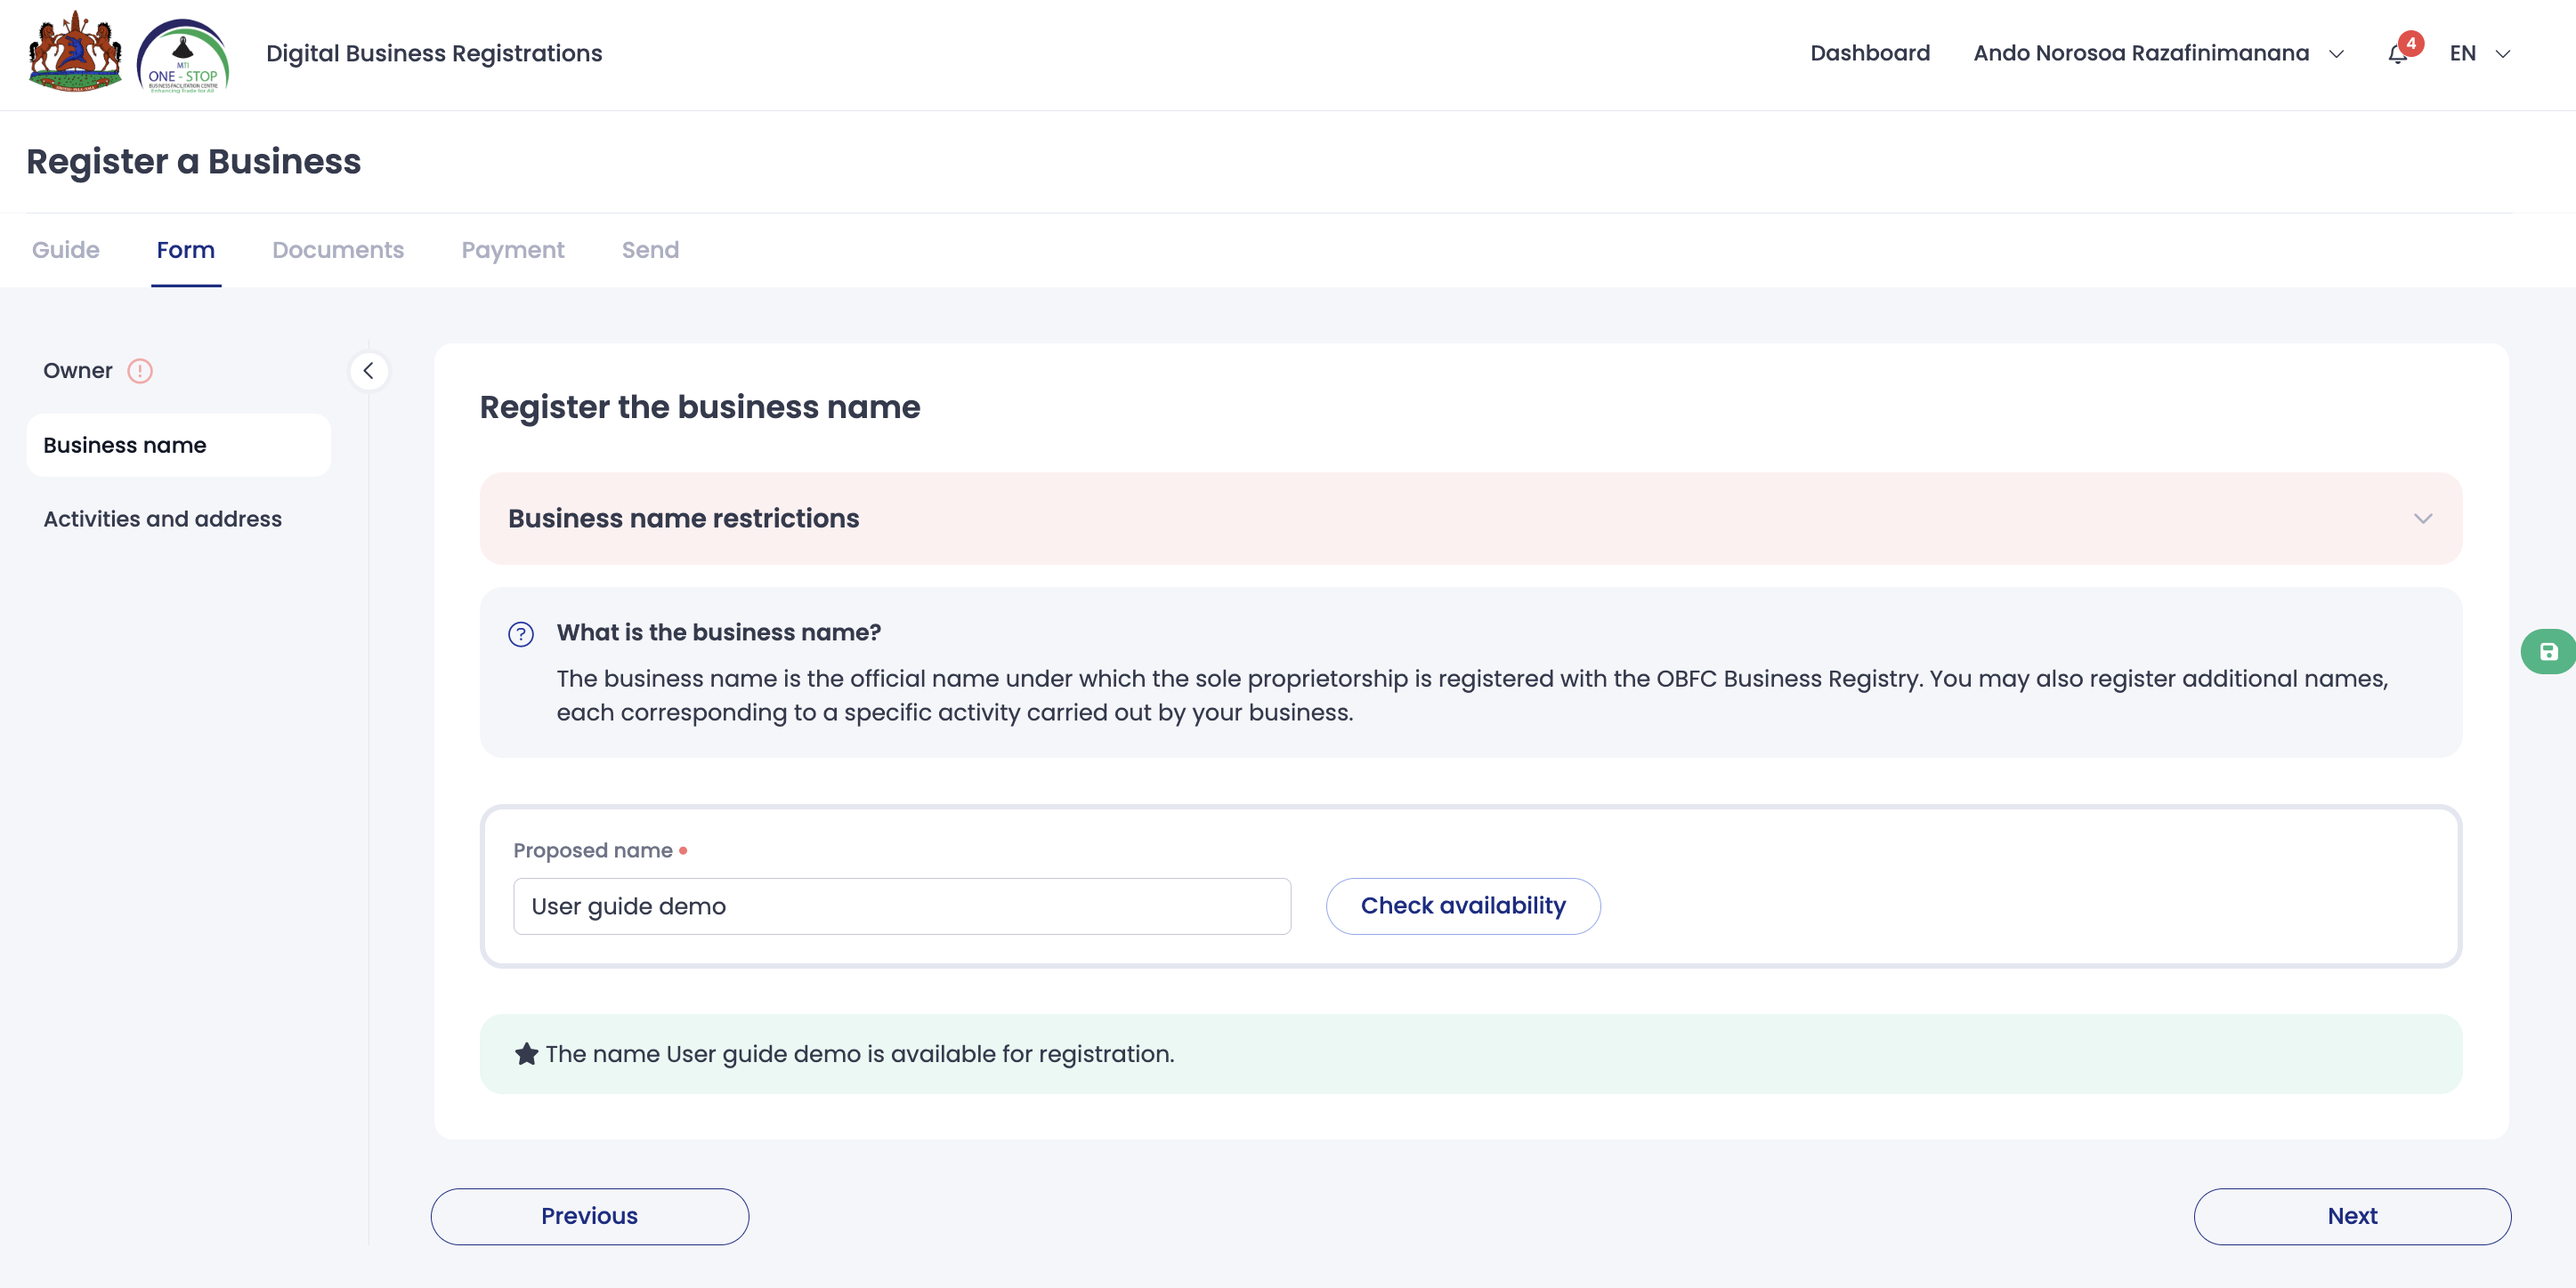
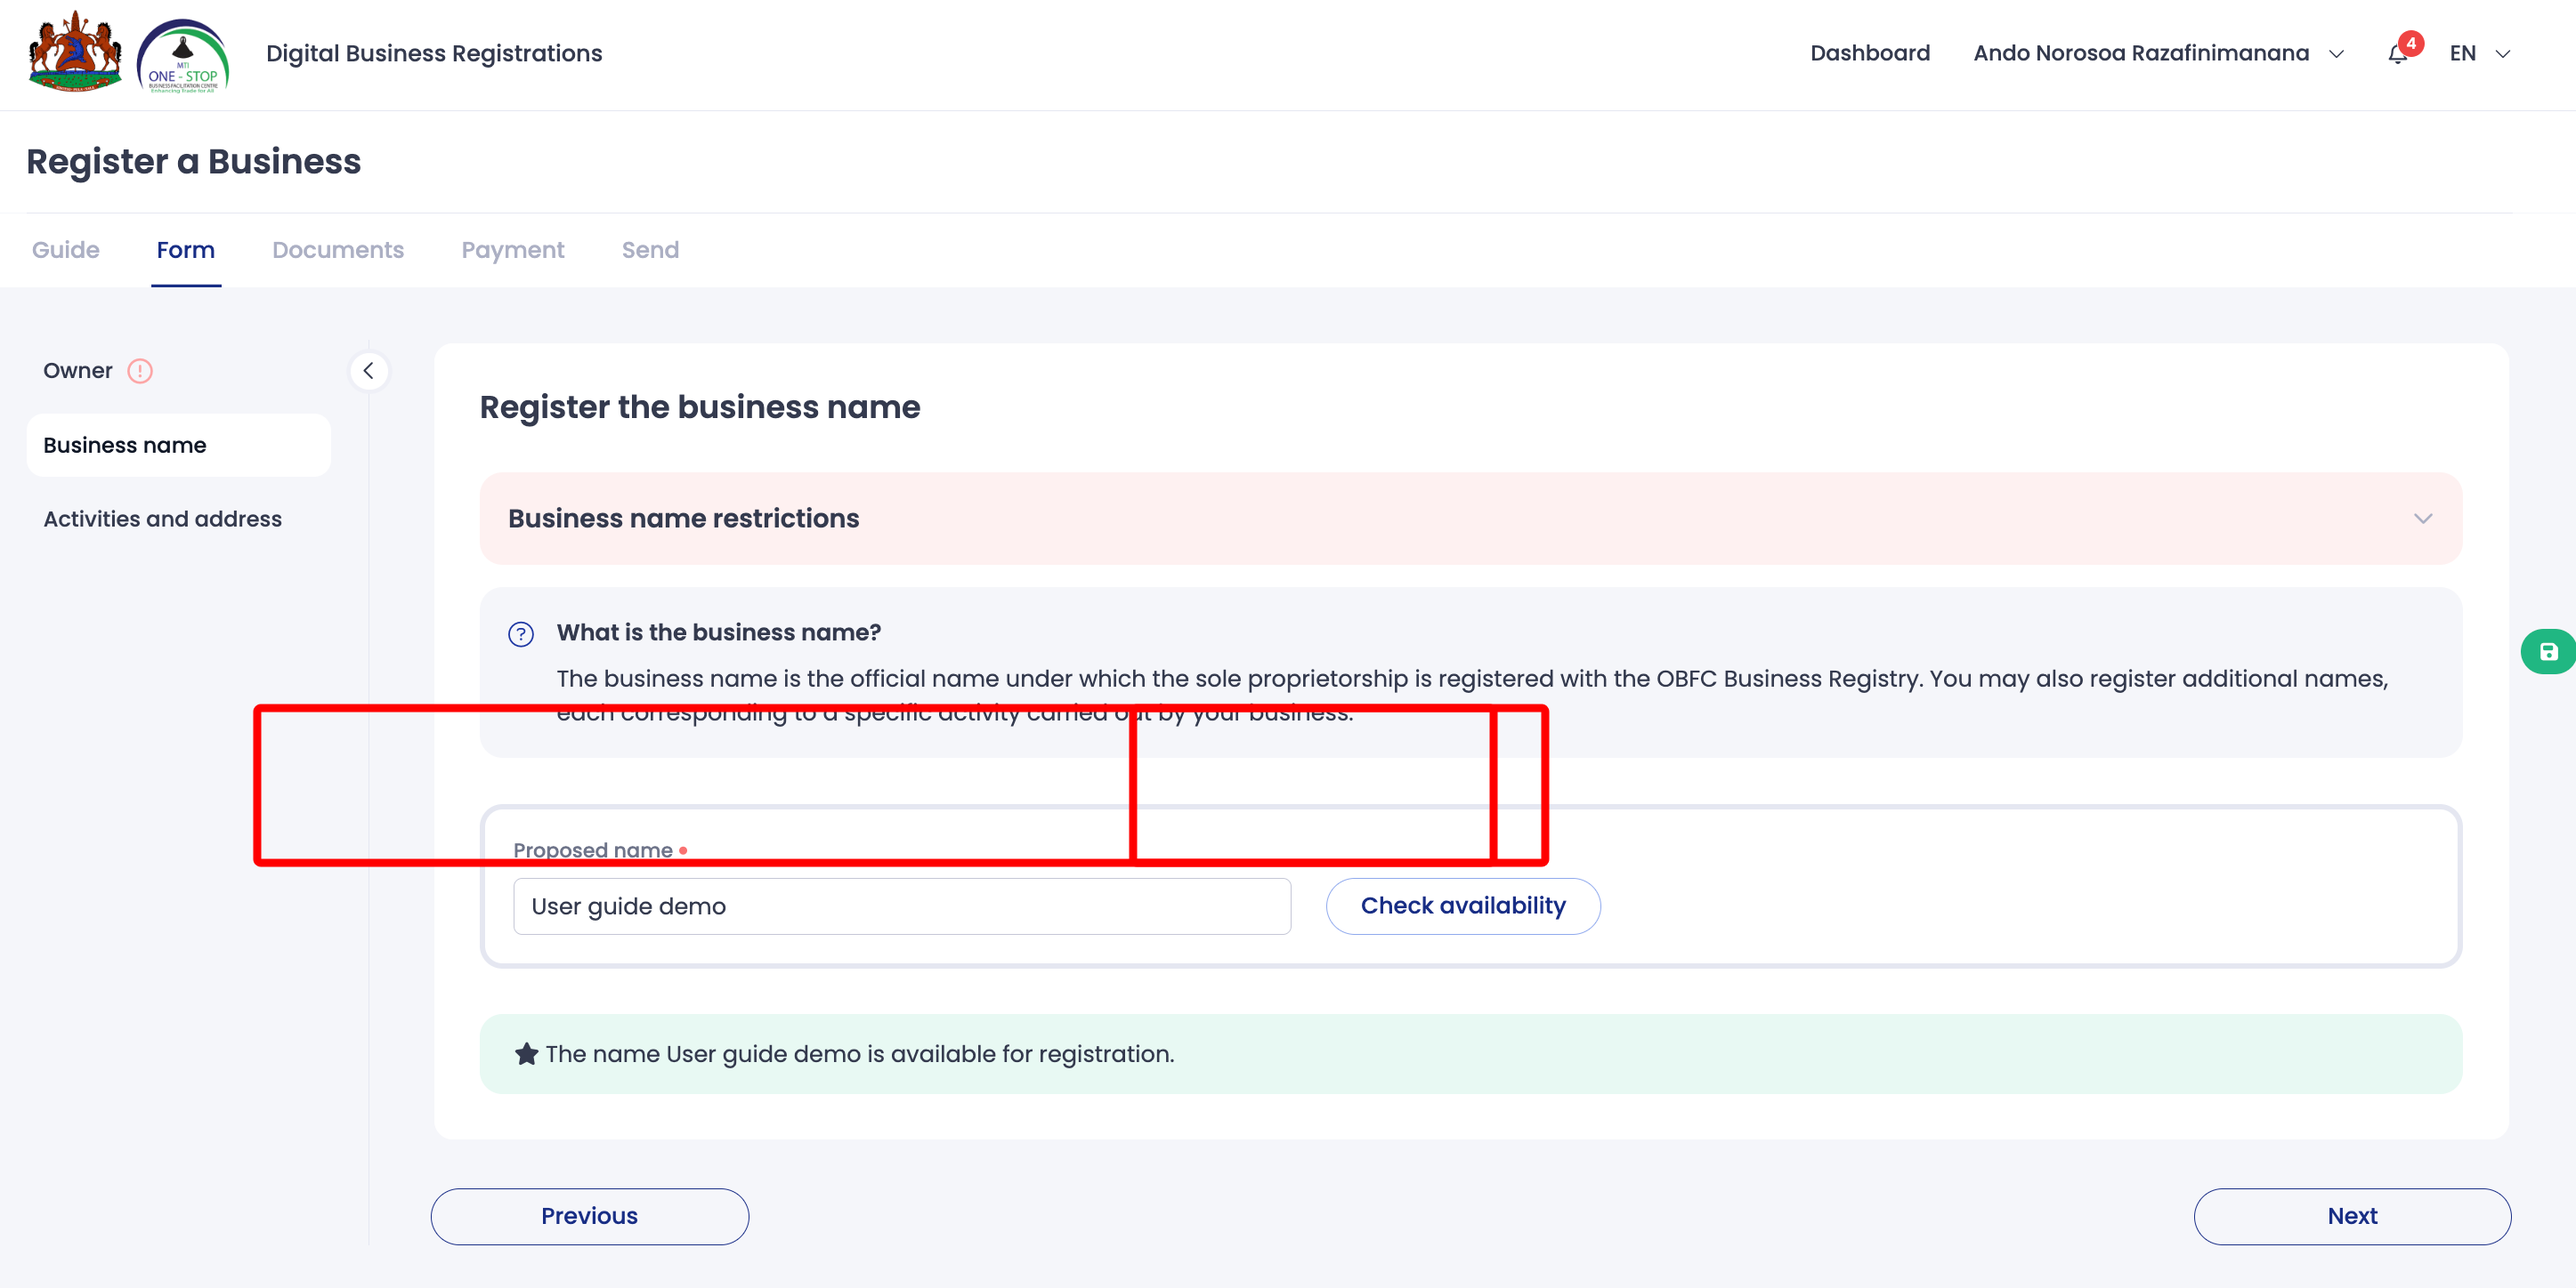
feat: annotate all screenshots with red highlights, add 'What happens next' section

Changed region(s): [[0.0933, 0.5283, 0.622, 0.6837], [0.9641, 0.4662, 1.0, 0.5283]]

diff --git a/lesotho/register-sole-proprietor.html b/lesotho/register-sole-proprietor.html
@@ -431,23 +431,31 @@
                     </li>
 
                 </ol>
+
+                <div class="info-box" style="background: #E8F5E9; border-left-color: #2E7D32;">
+                    <div class="box-label" style="color: #2E7D32;">
+                        <svg viewBox="0 0 24 24" fill="none" stroke="currentColor" stroke-width="2" stroke-linecap="round" stroke-linejoin="round"><path d="M22 11.08V12a10 10 0 1 1-5.93-9.14"/><polyline points="22 4 12 14.01 9 11.01"/></svg>
+                        What happens next
+                    </div>
+                    <p>Your application will be reviewed by the Business Registry and the Ministry of Trade and Industry within <strong>2&ndash;3 business days</strong>. You will receive an email at your registered address when your documents are ready to download. Save your reference number.</p>
+                </div>
             </div>
 
             <!-- ==================== SECTION 5: TRACK YOUR APPLICATION ==================== -->
             <div class="section" id="section-5">
                 <h2>5. Track Your Application</h2>
-                <p>Check your application status at any time from the <strong>My Applications</strong> section of your dashboard. The status updates automatically as your application moves through each processing step.</p>
+                <p>Check your status anytime from <strong>My Applications</strong> on your dashboard.</p>
 
                 <div class="screenshot-placeholder">
-                    <img src="screenshots/register-sole-proprietor/05-01-my-applications.png" alt="My Applications dashboard screen showing submitted applications with their current status, reference number, and submission date">
+                    <img src="screenshots/register-sole-proprietor/05-01-my-applications.png" alt="My Applications screen showing submitted applications with status, reference number, and date">
                 </div>
 
-                <div class="info-box">
+                <div class="warning-box">
                     <div class="box-label">
-                        <svg viewBox="0 0 20 20" fill="currentColor"><circle cx="10" cy="10" r="9" fill="none" stroke="currentColor" stroke-width="1.5"/><text x="10" y="14.5" text-anchor="middle" font-size="12" font-weight="700" fill="currentColor">i</text></svg>
-                        Application Returned
+                        <svg viewBox="0 0 20 20" fill="none" stroke="currentColor" stroke-width="1.5"><path d="M10 2L1 18h18L10 2z"/><line x1="10" y1="8" x2="10" y2="12"/><circle cx="10" cy="15" r="0.5" fill="currentColor"/></svg>
+                        Application returned?
                     </div>
-                    <p>If your application is returned for corrections, you will receive an email notification. Log in, review the officer's comments, make the requested changes, and re-submit. Your application reference number stays the same.</p>
+                    <p>If returned for corrections, you will receive an email. Log in, fix the issues noted by the officer, and re-submit. Your reference number stays the same.</p>
                 </div>
             </div>
 

diff --git a/annotate.js b/annotate.js
@@ -1,0 +1,65 @@
+#!/usr/bin/env node
+/**
+ * Screenshot Annotator
+ * Adds red circle/rectangle highlights to screenshots.
+ *
+ * Usage: node annotate.js <input> <output> <x> <y> <w> <h> [shape]
+ *   shape: "rect" (default) or "circle"
+ *   x,y: top-left corner (percentage of image, 0-100)
+ *   w,h: width/height (percentage of image, 0-100)
+ *
+ * Example: node annotate.js input.png output.png 60 80 30 10 rect
+ *   → draws a red rectangle at 60%,80% covering 30%x10% of the image
+ */
+
+const sharp = require('sharp');
+const path = require('path');
+
+async function annotate(inputPath, outputPath, xPct, yPct, wPct, hPct, shape = 'rect') {
+    const metadata = await sharp(inputPath).metadata();
+    const imgW = metadata.width;
+    const imgH = metadata.height;
+
+    const x = Math.round((xPct / 100) * imgW);
+    const y = Math.round((yPct / 100) * imgH);
+    const w = Math.round((wPct / 100) * imgW);
+    const h = Math.round((hPct / 100) * imgH);
+
+    const strokeWidth = Math.max(3, Math.round(imgW * 0.003));
+
+    let svgOverlay;
+    if (shape === 'circle') {
+        const cx = x + w / 2;
+        const cy = y + h / 2;
+        const rx = w / 2;
+        const ry = h / 2;
+        svgOverlay = `<svg width="${imgW}" height="${imgH}">
+            <ellipse cx="${cx}" cy="${cy}" rx="${rx}" ry="${ry}"
+                fill="none" stroke="#FF0000" stroke-width="${strokeWidth}"/>
+        </svg>`;
+    } else {
+        svgOverlay = `<svg width="${imgW}" height="${imgH}">
+            <rect x="${x}" y="${y}" width="${w}" height="${h}"
+                fill="none" stroke="#FF0000" stroke-width="${strokeWidth}" rx="4"/>
+        </svg>`;
+    }
+
+    const tmpPath = outputPath + '.tmp.png';
+    await sharp(inputPath)
+        .composite([{ input: Buffer.from(svgOverlay), top: 0, left: 0 }])
+        .toFile(tmpPath);
+
+    const fs = require('fs');
+    fs.renameSync(tmpPath, outputPath);
+    console.log(`Annotated: ${path.basename(outputPath)} (${shape} at ${xPct}%,${yPct}% ${wPct}x${hPct}%)`);
+}
+
+// CLI
+const args = process.argv.slice(2);
+if (args.length < 6) {
+    console.log('Usage: node annotate.js <input> <output> <x%> <y%> <w%> <h%> [rect|circle]');
+    process.exit(1);
+}
+
+annotate(args[0], args[1], +args[2], +args[3], +args[4], +args[5], args[6] || 'rect')
+    .catch(console.error);
